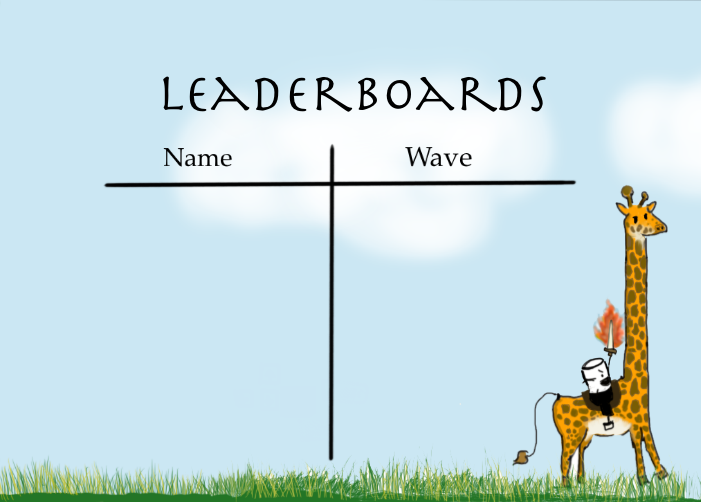
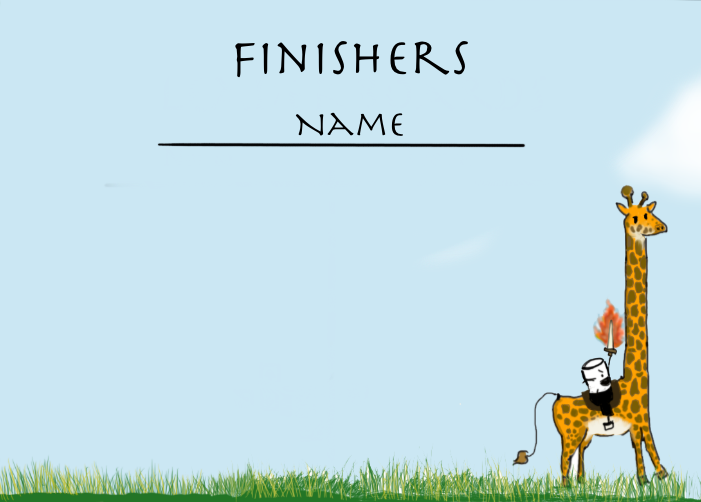
IM CHOKING

Changed region(s): [[0.1498, 0.0598, 0.8388, 0.9263], [0.8688, 0.1494, 0.9586, 0.2988], [0.2097, 0.1494, 0.2397, 0.2092]]

diff --git a/src/DMMC/Game.java b/src/DMMC/Game.java
@@ -571,16 +571,37 @@ public class Game extends GraphicsProgram implements ActionListener{
 		try {
 			int i = 0;
 			GLabel nameLabel;
+			ArrayList<String> names = new ArrayList<String>();
 			for (String line : Files.readAllLines(Paths.get("../media/" + s + ".txt")))
 			{
-				nameLabel= new GLabel(line, 200, 220+i);
-				nameLabel.setFont(new Font("Calibri", Font.PLAIN, 20));
-				add(nameLabel);
-				i+=50;
+				
+				names.add(line);
+				
 			}
+			for (int k = 0; k < names.size(); k++)
+			{
+				if (names.size() - k < 0)
+				{
+					break;
+				}
+				else if(k == 4)
+				{
+					break;
+				}
+				else
+				{
+					nameLabel= new GLabel(names.get(names.size()-k-1), 300, 220+i);
+					nameLabel.setFont(new Font("Calibri", Font.PLAIN, 20));
+					add(nameLabel);
+					i+=50;
+				}
+			}
+		
 		} catch (IOException e1) {
 			System.err.println("leaderboard file not found");
 		}
+		
+		
 	}
 
 	public void run()
@@ -741,13 +762,13 @@ public class Game extends GraphicsProgram implements ActionListener{
 	
 	public void updateHighScores(String map, String name) throws IOException
 	{
-		ArrayList<String> names = new ArrayList<String>();
+		/*ArrayList<String> names = new ArrayList<String>();
 		names.add(name);
 		for (int i = 1; i < 5; i ++)
 		{
 			try {
 		
-				for (String line : Files.readAllLines(Paths.get("../media/" + map + ".txt")))
+				for (String line : Files.readAllLines(Paths.get("../bin/" + map + ".txt")))
 				{
 					names.add(line);
 				}
@@ -760,9 +781,21 @@ public class Game extends GraphicsProgram implements ActionListener{
 		writer.write((names.get(0) + "\n").getBytes());
 		for (int i = 1; i < names.size(); i++)
 		{
+			writer.append(names.get(i) + "\n");
 			FileWriter fw = new FileWriter(map,true); //the true will append the new data
 			fw.write(names.get(i) + "\n");//appends the string to the file
 			fw.close();
+		}*/
+		
+		try
+		{
+			FileWriter fw = new FileWriter(map,true); //the true will append the new data
+			fw.write(name + "\n");//appends the string to the file
+			fw.close();
+		}
+		catch(IOException ioe)
+		{
+			System.err.println("IOException: " + ioe.getMessage());
 		}
 		
 		

diff --git a/src/DMMC/Screen/LevelData.java b/src/DMMC/Screen/LevelData.java
@@ -78,7 +78,8 @@ public abstract class LevelData {
 				"0","6","8",		
 				"1","6","3",
 				"1","6","6",
-				"4",//wave 3
+				"2"
+/*				"4",//wave 3
 				"0","6","8",		
 				"1","6","3",
 				"1","6","6",
@@ -99,7 +100,7 @@ public abstract class LevelData {
 				"2","6","1",
 				"3","6","2",
 				"5"//total number of waves
-			},
+*/			},
 			
 
 			{
